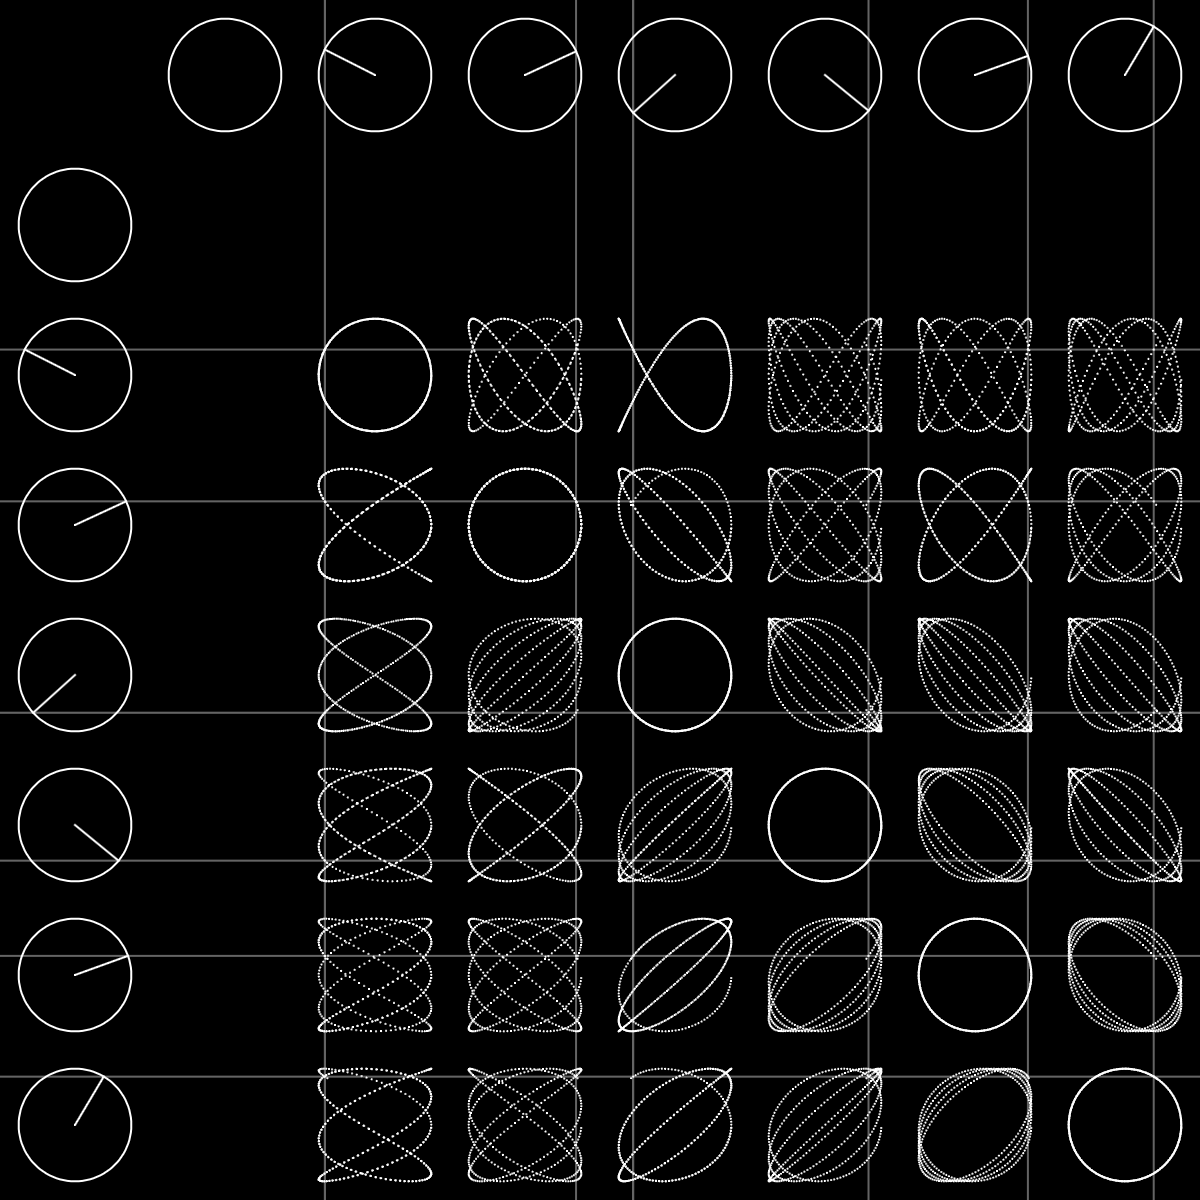
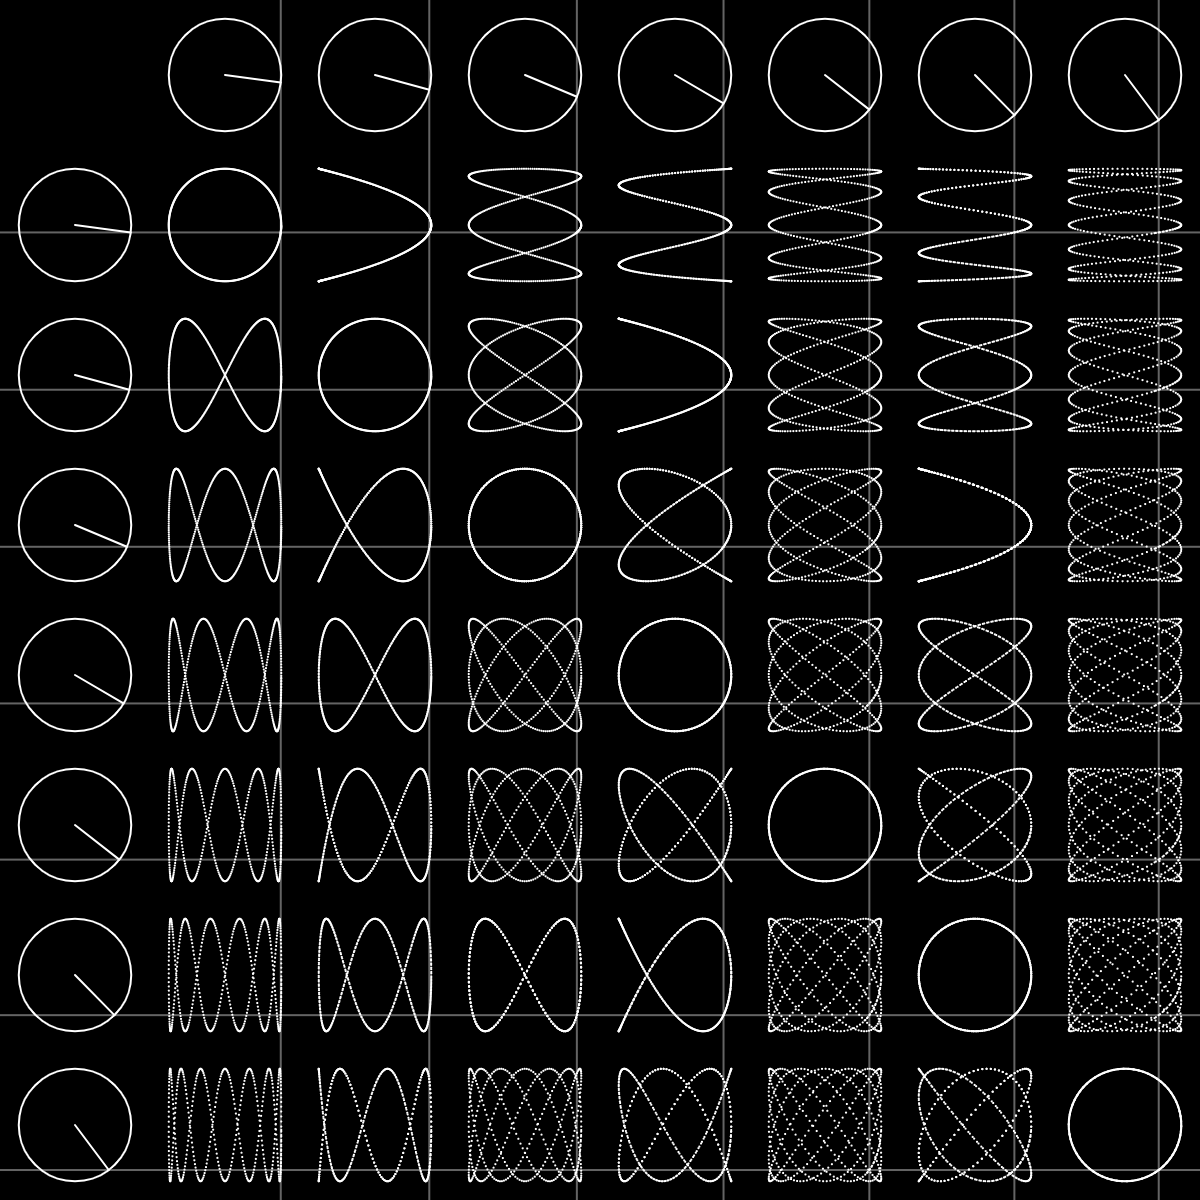
fixing a couple small bugs

diff --git a/public/gen_proj/intersections.js b/public/gen_proj/intersections.js
@@ -1,19 +1,17 @@
-let segments;
-let dist;
 let ver;
 let hor;
 let pg;
 
 function setup() {
   createCanvas(600, 600).parent("canvas");
-  segments = 8;
-  dist = width / segments;
+  let segments = 7;
+  let dist = width / (segments + 1);
   ver = [];
   hor = [];
-  for (let i = 0; i < segments - 1; i++) {
-    let begin = dist / 2 + dist;
+  for (let i = 0; i < segments; i++) {
+    let begin = dist * 3 / 2;
     let loc = begin + dist * i;
-    let rate = 0.045 / (ver.length) * (i + 1);
+    let rate = 0.09 / segments * (i + 1);
     ver.push(new Rotator(createVector(loc, dist / 2), rate, 0.75 * dist, true));
     hor.push(new Rotator(createVector(dist / 2, loc), rate, 0.75 * dist, false));
   }
@@ -41,6 +39,9 @@ function draw() {
     }
   }
   image(pg, 0, 0);
+  if (frameCount == 500) {
+    save('test.png');
+  }
 }
 
 class Rotator {

diff --git a/routes/index.js b/routes/index.js
@@ -15,10 +15,6 @@ router.get('/contact', (req, res) => {
   res.render('contact', {page: 'Contact', menuId: 'contact'});
 });
 
-router.get('/generative', (req, res) => {
-  res.render('generative', {page: 'Generative', menuId: 'generative'});
-});
-
 router.get('/display', (req, res) => {
   // Get the URL parameters
   var query = req.url.split('?').splice(1);
